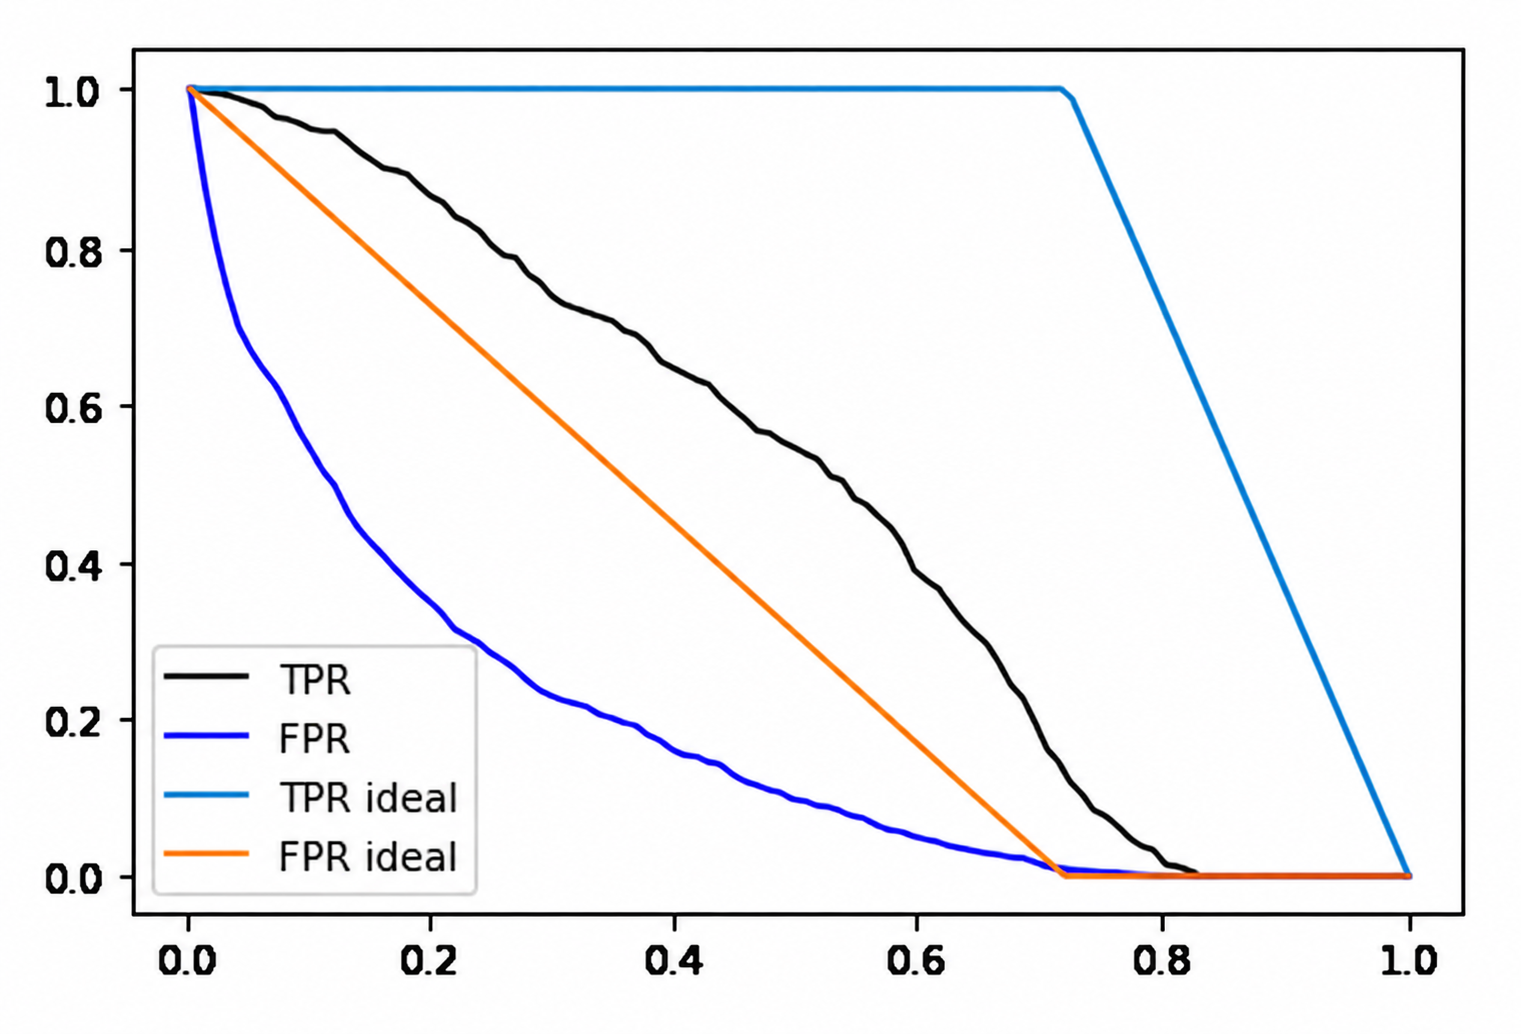
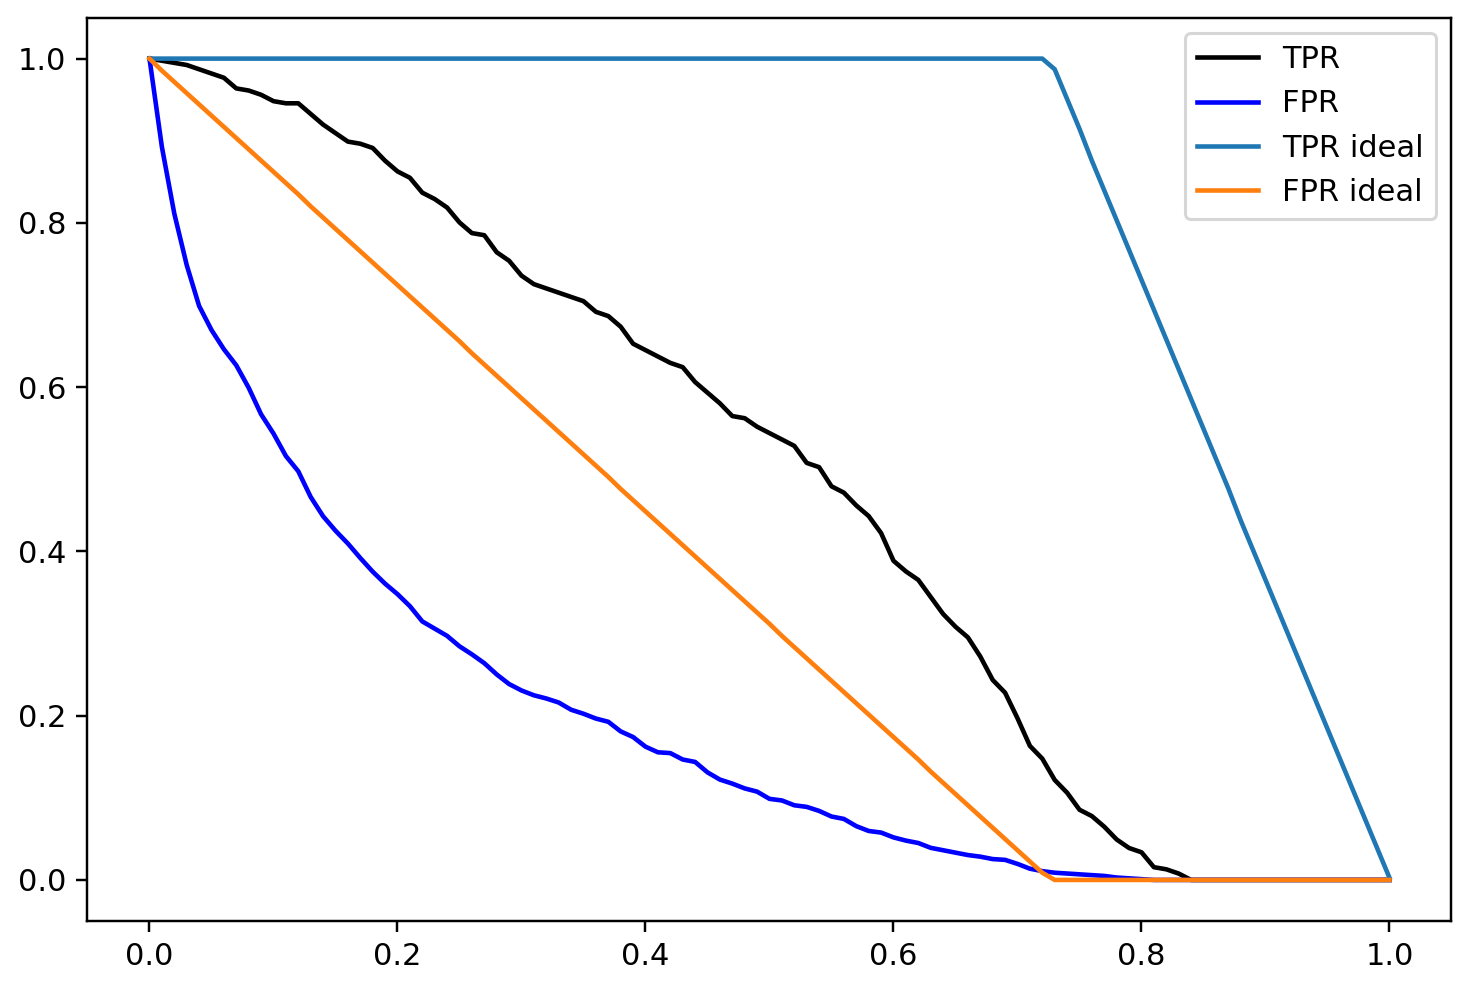
Regenerate evaluation ROC plots

diff --git a/cohorts/2026/04-evaluation/images/2026-09-09-roc-plot-render.py b/cohorts/2026/04-evaluation/images/2026-09-09-roc-plot-render.py
@@ -1,0 +1,197 @@
+#!/usr/bin/env python3
+"""Render the three evaluation ROC plots from the lesson's source data.
+
+The lesson notebook was executed with the historical scikit-learn stack.  The
+explicit versions in the provenance record are intentional: newer solvers can
+produce a different validation curve even when the source CSV is unchanged.
+"""
+
+from __future__ import annotations
+
+import argparse
+import hashlib
+import tempfile
+import urllib.request
+from pathlib import Path
+
+import matplotlib
+
+matplotlib.use("Agg")
+import matplotlib.pyplot as plt
+import numpy as np
+import pandas as pd
+from sklearn.feature_extraction import DictVectorizer
+from sklearn.linear_model import LogisticRegression
+from sklearn.metrics import roc_curve
+from sklearn.model_selection import train_test_split
+
+
+DATA_URL = (
+    "https://raw.githubusercontent.com/alexeygrigorev/mlbookcamp-code/"
+    "master/chapter-03-churn-prediction/WA_Fn-UseC_-Telco-Customer-Churn.csv"
+)
[1 lines of base64/hex data omitted]
+
+NUMERICAL = ["tenure", "monthlycharges", "totalcharges"]
+CATEGORICAL = [
+    "gender",
+    "seniorcitizen",
+    "partner",
+    "dependents",
+    "phoneservice",
+    "multiplelines",
+    "internetservice",
+    "onlinesecurity",
+    "onlinebackup",
+    "deviceprotection",
+    "techsupport",
+    "streamingtv",
+    "streamingmovies",
+    "contract",
+    "paperlessbilling",
+    "paymentmethod",
+]
+
+
+def sha256(path: Path) -> str:
+    digest = hashlib.sha256()
+    with path.open("rb") as source:
+        for block in iter(lambda: source.read(1024 * 1024), b""):
+            digest.update(block)
+    return digest.hexdigest()
+
+
+def prepare_predictions(data_path: Path) -> tuple[np.ndarray, np.ndarray]:
+    if sha256(data_path) != DATA_SHA256:
+        raise ValueError(
+            f"unexpected source hash for {data_path}; expected {DATA_SHA256}"
+        )
+
+    df = pd.read_csv(data_path)
+    df.columns = df.columns.str.lower().str.replace(" ", "_")
+    categorical_columns = list(df.dtypes[df.dtypes == "object"].index)
+    for column in categorical_columns:
+        df[column] = df[column].str.lower().str.replace(" ", "_")
+
+    df.totalcharges = pd.to_numeric(df.totalcharges, errors="coerce")
+    df.totalcharges = df.totalcharges.fillna(0)
+    df.churn = (df.churn == "yes").astype(int)
+
+    df_full_train, _ = train_test_split(df, test_size=0.2, random_state=1)
+    df_train, df_val = train_test_split(
+        df_full_train, test_size=0.25, random_state=1
+    )
+    df_train = df_train.reset_index(drop=True)
+    df_val = df_val.reset_index(drop=True)
+
+    y_train = df_train.pop("churn").values
+    y_val = df_val.pop("churn").values
+
+    vectorizer = DictVectorizer(sparse=False)
+    train_dict = df_train[CATEGORICAL + NUMERICAL].to_dict(orient="records")
+    val_dict = df_val[CATEGORICAL + NUMERICAL].to_dict(orient="records")
+    x_train = vectorizer.fit_transform(train_dict)
+    x_val = vectorizer.transform(val_dict)
+
+    model = LogisticRegression()
+    model.fit(x_train, y_train)
+    y_pred = model.predict_proba(x_val)[:, 1]
+    return y_val, y_pred
+
+
+def threshold_frame(y_val: np.ndarray, y_pred: np.ndarray) -> pd.DataFrame:
+    rows = []
+    for threshold in np.linspace(0, 1, 101):
+        actual_positive = y_val == 1
+        actual_negative = y_val == 0
+        predict_positive = y_pred >= threshold
+        predict_negative = y_pred < threshold
+        tp = int((predict_positive & actual_positive).sum())
+        tn = int((predict_negative & actual_negative).sum())
+        fp = int((predict_positive & actual_negative).sum())
+        fn = int((predict_negative & actual_positive).sum())
+        rows.append(
+            {
+                "threshold": threshold,
+                "tpr": tp / (tp + fn),
+                "fpr": fp / (fp + tn),
+            }
+        )
+    return pd.DataFrame(rows)
+
+
+def save_figure(figure: plt.Figure, path: Path) -> None:
+    figure.savefig(
+        path,
+        dpi=220,
+        facecolor="white",
+        bbox_inches="tight",
+        pad_inches=0.08,
+    )
+    plt.close(figure)
+
+
+def render(data_path: Path, output_dir: Path) -> None:
+    y_val, y_pred = prepare_predictions(data_path)
+    scores = threshold_frame(y_val, y_pred)
+
+    num_neg = int((y_val == 0).sum())
+    num_pos = int((y_val == 1).sum())
+    y_ideal = np.repeat([0, 1], [num_neg, num_pos])
+    y_ideal_pred = np.linspace(0, 1, len(y_val))
+    ideal = threshold_frame(y_ideal, y_ideal_pred)
+
+    figure, axes = plt.subplots(figsize=(8, 5.3333333333))
+    axes.plot(scores.threshold, scores.tpr, label="TPR", color="black")
+    axes.plot(scores.threshold, scores.fpr, label="FPR", color="blue")
+    axes.plot(ideal.threshold, ideal.tpr, label="TPR ideal")
+    axes.plot(ideal.threshold, ideal.fpr, label="FPR ideal")
+    axes.legend()
+    save_figure(
+        figure,
+        output_dir / "05-roc-04-model-vs-ideal-tpr-fpr-crisp.png",
+    )
+
+    figure, axes = plt.subplots(figsize=(6.5, 6.5))
+    axes.plot(scores.fpr, scores.tpr, label="Model")
+    axes.plot([0, 1], [0, 1], label="Random", linestyle="--")
+    axes.set_xlabel("FPR")
+    axes.set_ylabel("TPR")
+    axes.legend()
+    save_figure(
+        figure,
+        output_dir / "05-roc-05-roc-curve-manual-crisp.png",
+    )
+
+    fpr, tpr, _ = roc_curve(y_val, y_pred)
+    figure, axes = plt.subplots(figsize=(6.5, 6.5))
+    axes.plot(fpr, tpr, label="Model")
+    axes.plot([0, 1], [0, 1], label="Random", linestyle="--")
+    axes.set_xlabel("FPR")
+    axes.set_ylabel("TPR")
+    axes.legend()
+    save_figure(
+        figure,
+        output_dir / "05-roc-06-roc-curve-sklearn-crisp.png",
+    )
+
+
+def main() -> None:
+    parser = argparse.ArgumentParser()
+    parser.add_argument("--data-path", type=Path)
+    parser.add_argument("--output-dir", type=Path, required=True)
+    args = parser.parse_args()
+
+    args.output_dir.mkdir(parents=True, exist_ok=True)
+    if args.data_path:
+        render(args.data_path, args.output_dir)
+        return
+
+    with tempfile.TemporaryDirectory() as directory:
+        data_path = Path(directory) / "data-week-3.csv"
+        urllib.request.urlretrieve(DATA_URL, data_path)
+        render(data_path, args.output_dir)
+
+
+if __name__ == "__main__":
+    main()

diff --git a/cohorts/2026/04-evaluation/images/2026-09-09-roc-plot-repair-provenance.md b/cohorts/2026/04-evaluation/images/2026-09-09-roc-plot-repair-provenance.md
@@ -1,0 +1,87 @@
+# ROC plot repair provenance — 2026-09-09
+
+This record covers only the three active ROC references in `05-roc.md`:
+
+- `05-roc-04-model-vs-ideal-tpr-fpr-crisp.png`
+- `05-roc-05-roc-curve-manual-crisp.png`
+- `05-roc-06-roc-curve-sklearn-crisp.png`
+
+The original JPGs were inspected for content and retained unchanged. No crop
+was used for this batch: these are deterministic native plots, not imagegen
+redraws. The previous PNGs were enlarged screenshot-derived plots; they were
+replaced with fresh rasterizations of the lesson's plotting code.
+
+## Source of truth
+
+The renderer is `2026-09-09-roc-plot-render.py`. It follows the exact data
+preparation, split, model, threshold loop, ideal-model construction, and
+`roc_curve` calls in `../05-roc.md` and `../notebook.ipynb`.
+
+The source CSV is the file downloaded by the original lesson notebook:
+
+```text
+https://raw.githubusercontent.com/alexeygrigorev/mlbookcamp-code/master/chapter-03-churn-prediction/WA_Fn-UseC_-Telco-Customer-Churn.csv
+```
+
+Source CSV SHA-256:
+
+```text
[1 lines of base64/hex data omitted]
+```
+
+The historical runtime is pinned because newer scikit-learn solvers can shift
+the validation probabilities even with the same CSV:
+
+```text
+Python 3.8
+numpy 1.18.5
+pandas 1.0.5
+scikit-learn 0.22.2.post1
+matplotlib (renderer only)
+```
+
+The notebook's validation set has 1,409 rows: 1,023 negatives and 386
+positives. At threshold `0.5`, the lesson confusion matrix is:
+
+```text
+[[922, 101],
+ [176, 210]]
+```
+
+The notebook records ROC AUC `0.843850505725819`; the renderer uses the
+lesson's plotted `df_scores` and `roc_curve` values rather than a hand-drawn
+approximation or a screenshot trace.
+
+## Reproduction
+
+From this directory, after downloading the CSV to `/tmp/data-week-3.csv`:
+
+```bash
+uv run --python 3.8 \
+  --with numpy==1.18.5 \
+  --with pandas==1.0.5 \
+  --with scikit-learn==0.22.2.post1 \
+  --with matplotlib \
+  python 2026-09-09-roc-plot-render.py \
+  --data-path /tmp/data-week-3.csv \
+  --output-dir .
+```
+
+No enlargement, sharpening, imagegen, camera, browser chrome, cursor, or
+overlay is involved. The outputs are rendered at native high resolution and
+remain readable in a 608px-wide lesson render.
+
+## Hashes
+
+| Artifact | SHA-256 |
+|---|---|
[7 lines of base64/hex data omitted]
+
+The three deterministic PNGs do not carry C2PA metadata because they were
+rendered from code; C2PA is required only for imagegen-produced assets.
